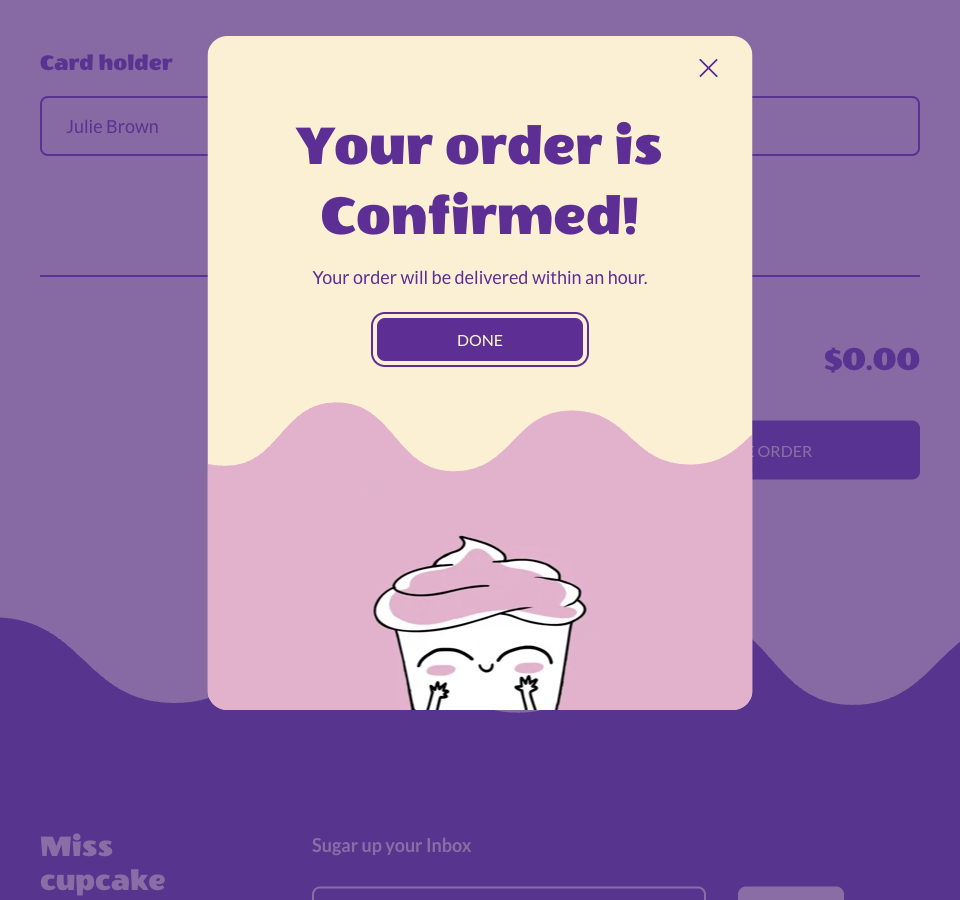
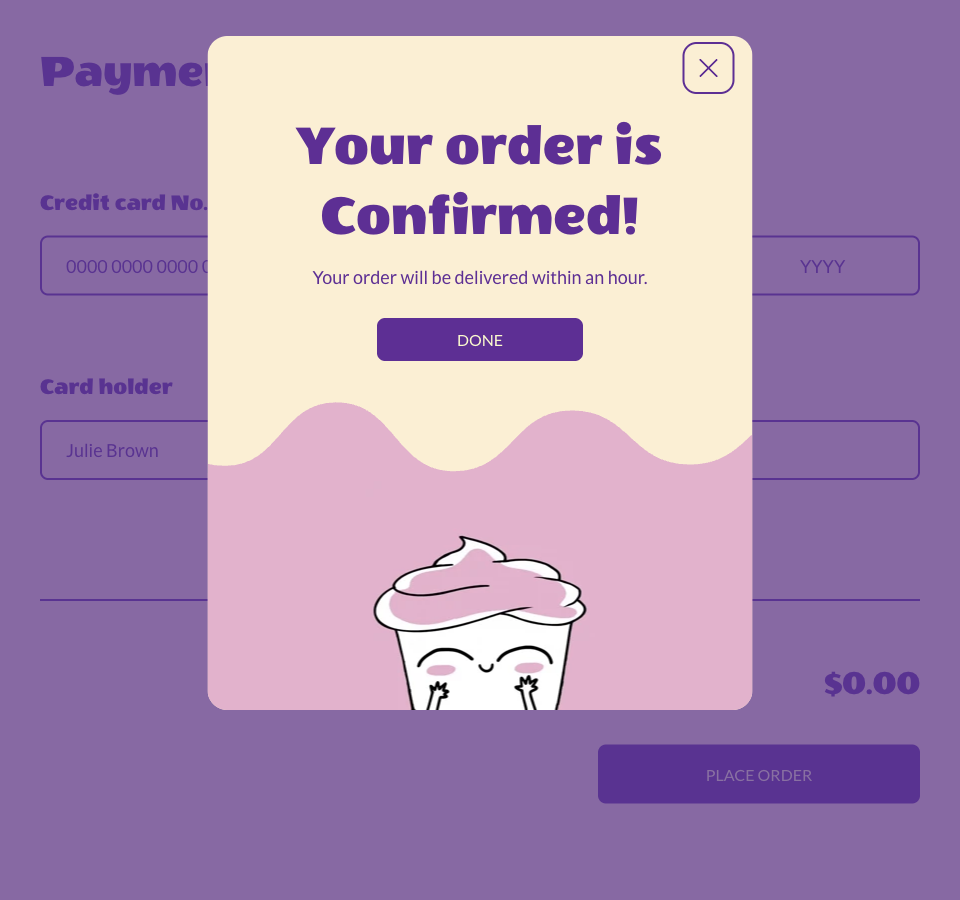
chore(5.6): Update Button component to support ref forwarding and improve focus handling in PaymentConfirmed modal

diff --git a/src/components/PaymentConfirmed/PaymentConfirmed.tsx b/src/components/PaymentConfirmed/PaymentConfirmed.tsx
@@ -11,6 +11,7 @@ type PaymentConfirmedProps = {
 
 export function PaymentConfirmed({ onClose }: PaymentConfirmedProps) {
   const dialogRef = useRef<HTMLDialogElement>(null)
+  const doneRef = useRef<HTMLButtonElement>(null)
   const titleId = useId()
   const descriptionId = useId()
 
@@ -23,15 +24,12 @@ export function PaymentConfirmed({ onClose }: PaymentConfirmedProps) {
     const previousPriority = bodyStyle.getPropertyPriority('overflow')
     bodyStyle.setProperty('overflow', 'hidden')
     dialog.showModal()
-    dialog.querySelector<HTMLButtonElement>('[data-confirmation-done]')?.focus()
+    // React autoFocus runs while the dialog is hidden; focus only after entering modal mode.
+    doneRef.current?.focus()
 
     return () => {
       dialog.close()
-      if (previousOverflow) {
-        bodyStyle.setProperty('overflow', previousOverflow, previousPriority)
-      } else {
-        bodyStyle.removeProperty('overflow')
-      }
+      bodyStyle.setProperty('overflow', previousOverflow, previousPriority)
     }
   }, [])
 
@@ -53,7 +51,7 @@ export function PaymentConfirmed({ onClose }: PaymentConfirmedProps) {
         <div className={styles.content}>
           <h2 id={titleId} className={styles.title}>Your order is Confirmed!</h2>
           <p id={descriptionId} className={styles.description}>Your order will be delivered within an hour.</p>
-          <Button autoFocus data-confirmation-done className={styles.done} onClick={onClose}>Done</Button>
+          <Button ref={doneRef} className={styles.done} onClick={onClose}>Done</Button>
         </div>
         <Band color="pink" wave className={styles.illustrationBand} aria-hidden="true">
           <img src={confirmedImage} alt="" width={229} height={229} className={styles.illustration} />

diff --git a/src/components/Button/Button.tsx b/src/components/Button/Button.tsx
@@ -1,4 +1,4 @@
-import type { AnchorHTMLAttributes, ButtonHTMLAttributes, ReactNode } from 'react'
+import type { AnchorHTMLAttributes, ButtonHTMLAttributes, ReactNode, Ref } from 'react'
 import styles from './Button.module.css'
 
 type ButtonVariant = 'filled' | 'light' | 'text'
@@ -11,7 +11,7 @@ type CommonProps = {
 }
 
 type ButtonAsButton = CommonProps &
-  Omit<ButtonHTMLAttributes<HTMLButtonElement>, keyof CommonProps> & { href?: undefined }
+  Omit<ButtonHTMLAttributes<HTMLButtonElement>, keyof CommonProps> & { href?: undefined; ref?: Ref<HTMLButtonElement> }
 
 type ButtonAsLink = CommonProps &
   Omit<AnchorHTMLAttributes<HTMLAnchorElement>, keyof CommonProps> & { href: string }
@@ -26,13 +26,13 @@ export function Button(props: ButtonProps) {
 
   if (rest.href !== undefined) {
     return (
-      <a {...(rest as AnchorHTMLAttributes<HTMLAnchorElement>)} className={classes}>
+      <a {...rest} className={classes}>
         {children}
       </a>
     )
   }
 
-  const { type = 'button', ...buttonRest } = rest as ButtonHTMLAttributes<HTMLButtonElement>
+  const { type = 'button', ...buttonRest } = rest
   return (
     <button {...buttonRest} type={type} className={classes}>
       {children}

diff --git a/src/components/PaymentConfirmed/PaymentConfirmed.module.css b/src/components/PaymentConfirmed/PaymentConfirmed.module.css
@@ -1,3 +1,5 @@
+/* Figma 31:846: 300×371 at y20; 30:235 / 9:917: 545×674 at y36 / y64.
+   Off-scale sizes below come from the popup, artwork and text bounds in those frames. */
 .dialog {
   position: fixed;
   inset: var(--space-20) 0 auto;

diff --git a/tasks/05.6-payment-confirmed.md b/tasks/05.6-payment-confirmed.md
@@ -33,10 +33,12 @@ Homepage "Registered completed" state (step 6); emails or order history.
 
 ## Test report
 
-Implemented as the required valid-submit destination for task 5.5. Chrome at 375 / 960 / 1440; screenshots: `tasks/screenshots/payment-confirmed-{375,960,1440}.png`.
+Dedicated task 5.6 verification after the implementation from 5.5. Chrome at 375 / 960 / 1440; screenshots: `tasks/screenshots/payment-confirmed-{375,960,1440}.png`.
 
-- Native `dialog.showModal()`, accessible title/description, initial DONE focus. Repeated Tab moved between dialog controls/browser chrome, never background page controls; wheel did not move the underlying page. Body overflow is restored on unmount.
-- Full flow from Home through My Bag, Checkout and Payment exercised at all three widths. Empty submit remained on Payment; valid test-card submit opened confirmation, cleared cart and checkout session. Escape / DONE / × each navigated home; browser Back did not reopen confirmation.
-- Cached Figma geometry: Mobile 300×371 at y20; Tablet/Desktop 545×674 at y36 / y64. Purple backdrop uses 70% opacity as specified here; base token remains opaque. Pink band uses source artwork color `--color-confirmed-pink`; wave reuses Band. Artwork is static WebP, 229×229, 6582 bytes; no animation, so no reduced-motion override is necessary.
-- Corrected delivery wording. Independent review covered modal integration and cleanup; no remaining findings after the two Payment fixes. `yarn lint`, `yarn build`, `yarn test` passed (119 tests), browser console had no app errors/warnings. No fresh Figma full-frame pixel diff: cached nodes and downloaded fills were used.
+- Native `dialog.showModal()`, accessible title/description and initial DONE focus. Full Home → add cupcake → My Bag → Checkout → Payment → invalid submit → correct fields → Confirmed → Home flow passed at all three widths. Escape / DONE / × each returned home; cart, badge and checkout session were cleared on opening. Back did not reopen confirmation.
+- Repeated Tab never entered background controls; wheel did not move the page. Closing restored both an absent inline overflow and a pre-existing `overflow: auto !important`. StrictMode setup/cleanup runs correctly.
+- Reference geometry: Mobile 300×371 at y20; Tablet/Desktop 545×674 at y36 / y64. Backdrop computed alpha is 0.7. Pink uses `--color-confirmed-pink`; wave reuses Band. Static source WebP is 229×229, 6582 bytes. At 320×320 the popup fits as a 280×280 scrollable viewport; DONE and × remain reachable. Reduced-motion mode was exercised; there is no animation.
+- Simplification: removed DOM selector/data marker and duplicate autoFocus, using a direct DONE ref after showModal. React autoFocus alone was tried and rejected by browser proof: it focused × because no native autofocus attribute was emitted. Shared Button forwards the React 19 ref with no wrapper; two unnecessary type assertions were removed. Overflow cleanup uses one CSSOM setProperty call, retaining the original value and priority.
+- Quality approach: declarative React/CSS for presentation, pure TypeScript validation, imperative event-driven order cleanup and a native-dialog Effect for browser synchronization. No modal library, controller, generic modal framework or new dependency.
+- Independent agent `ReviewConfirmedTask56` reviewed acceptance criteria and all five quality rules, identified the focus regression and approved its ref-based fix; final verdict correct, no remaining findings. `yarn lint`, `yarn build`, `yarn test` passed (119 tests in 6 files); browser console had no app errors/warnings. Cached Figma nodes and downloaded fills were used; no fresh full-frame Figma pixel diff was available.
 
